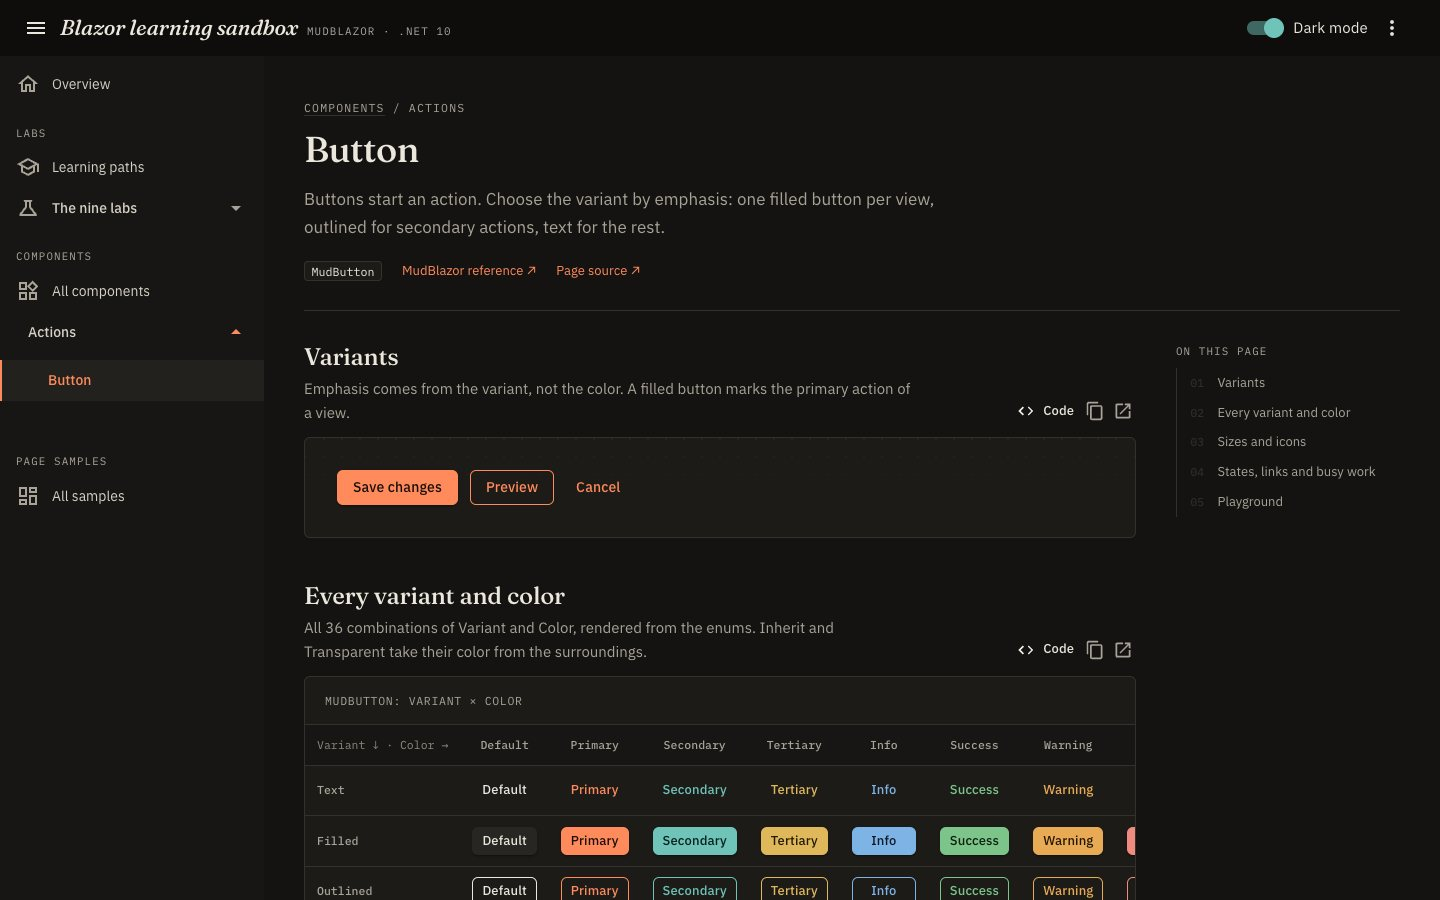
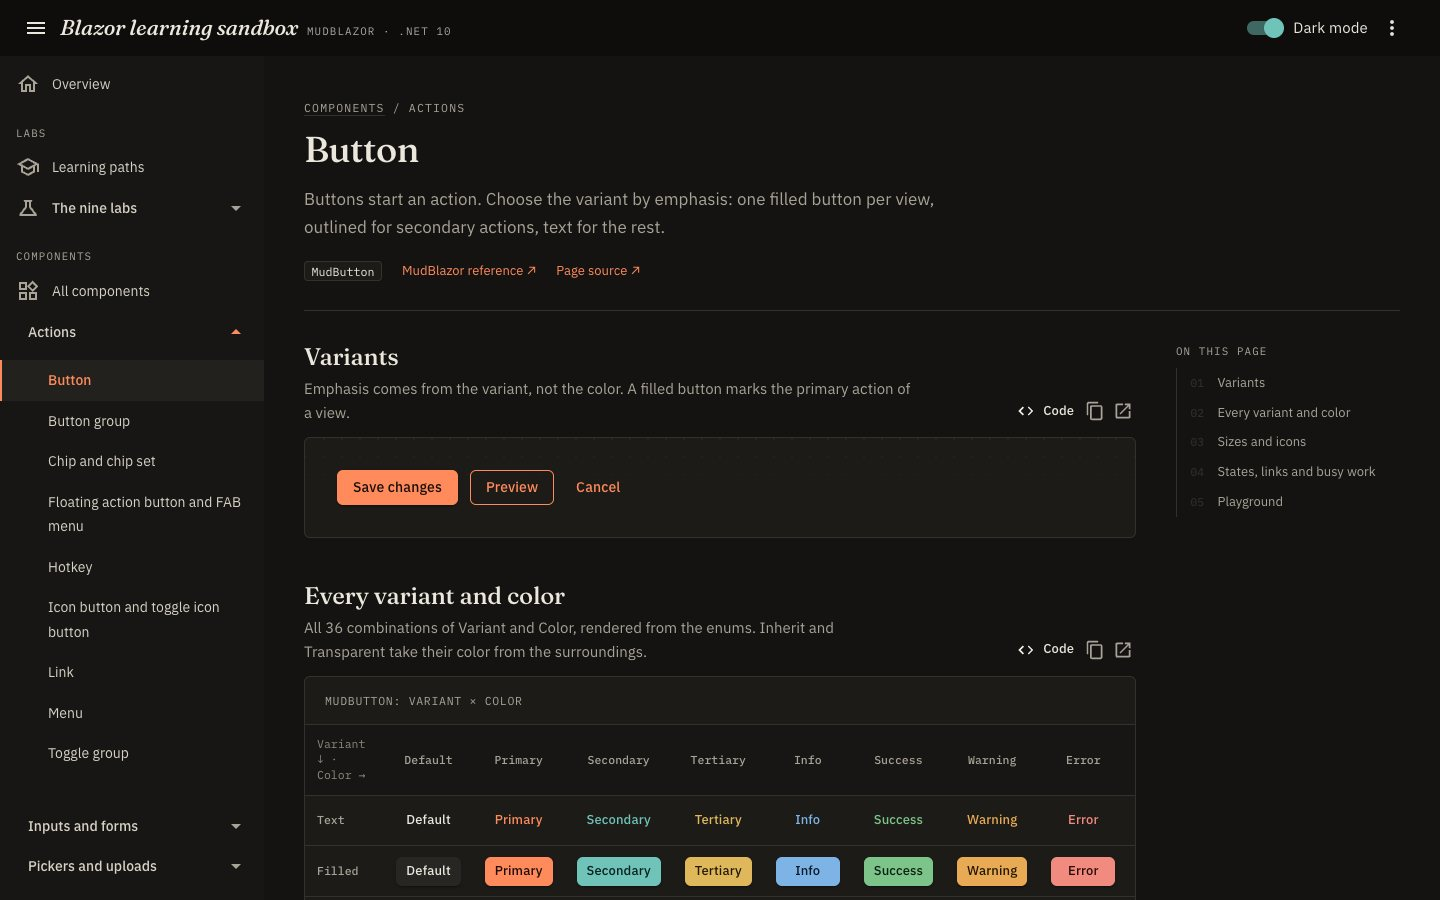
docs: document culture selection, gallery tests and the route sweep
- smoke checks cover the new home, indexes, a component page and a sample
- landing plates recaptured from the finished gallery
- the app-bar wordmark stays on one line on phones

diff --git a/src/WebClient.Shared/wwwroot/app.css b/src/WebClient.Shared/wwwroot/app.css
@@ -50,11 +50,12 @@ pre { overflow-x: auto; padding: 1rem; background: var(--code-bg); color: var(--
 h1[tabindex="-1"]:focus, main[tabindex="-1"]:focus { outline: none; }
 
 /* App bar wordmark */
-.wordmark { display: inline-flex; align-items: baseline; gap: .55rem; color: inherit; text-decoration: none; }
+.wordmark { display: inline-flex; align-items: baseline; gap: .55rem; min-width: 0; color: inherit; text-decoration: none; white-space: nowrap; }
 .wordmark-mark { font-family: var(--font-serif); font-style: italic; font-size: 1.35rem; font-weight: 500; letter-spacing: -.01em; }
 .wordmark-tag { font-family: var(--font-mono); font-size: .68rem; letter-spacing: .1em; text-transform: uppercase; opacity: .7; }
 .mobile-theme { display: none; }
 @media (max-width: 960px) { .desktop-theme { display: none; } .mobile-theme { display: block; } .wordmark-tag { display: none; } }
+@media (max-width: 480px) { .wordmark-mark { font-size: 1.1rem; overflow: hidden; text-overflow: ellipsis; } }
 
 /* Drawer: a table of contents rather than a menu */
 .app-drawer .mud-navmenu { padding-block: .5rem 2rem; }

diff --git a/scripts/smoke-http.py b/scripts/smoke-http.py
@@ -9,8 +9,12 @@ from urllib.request import urlopen
 
 # Route and the page heading it must prerender. Lab titles come from LabCatalog.
 ROUTES = {
-    "/": "Your Blazor and MudBlazor toolbox",
-    "/labs": "Choose an experiment",
+    "/": "Learn by changing working examples.",
+    "/labs": "Nine experiments, in order",
+    "/components": "Every MudBlazor component, working",
+    "/samples": "Whole pages, composed",
+    "/components/button": "Button",
+    "/samples/dashboard": "Analytics dashboard",
     "/counter": "State and lifecycle",
     "/weather": "DataGrid experiments",
     "/labs/forms": "Forms and transactional dialogs",

diff --git a/docs/wiki/testing.md b/docs/wiki/testing.md
@@ -22,6 +22,7 @@ Tests use xUnit, bUnit, ASP.NET Core's in-process server, and real SQLite migrat
 | Identity | Antiforgery rejection, anonymous/student/instructor policy results, disabled demo sign-in |
 | Persistence | Migrations, workspace isolation, stale-update/delete conflicts, scoped reset, note limit, page-only sliding workspace cookie, tampered-cookie replacement |
 | Static demo | In-browser API rules, encoded typed-client requests, localStorage notebook outcomes, browser personas, existing lab sources |
+| Gallery | Every component page and page sample renders with bUnit without hitting an example's error boundary, every example embeds its source, routes are unique, the highlighter round-trips source, snippets omit defaults |
 | Localization | Culture cookie, Portuguese resource text, culture-specific formatting |
 
 These checks do not measure browser layout, assistive-technology behavior, or a live hosting environment. The WebAssembly demo has a browser check (below); the server app's browser behavior and post-deployment verification remain separate layers. Hostinger setup is pending.
@@ -56,7 +57,7 @@ npx playwright install chromium   # once; or set PLAYWRIGHT_CHANNEL=chrome
 npm run check:demo
 ```
 
-The check serves `docs/out` like GitHub Pages (repository path, `404.html` fallback) and verifies deep links, the in-browser API, the skip link, scoped state, notebook conflicts, browser personas, culture reload, atomic CSV import, the largest grid, the not-found page, and a clean console.
+The check serves `docs/out` like GitHub Pages (repository path, `404.html` fallback) and verifies deep links, the in-browser API, the skip link, scoped state, notebook conflicts, browser personas, culture reload, atomic CSV import, the largest grid, the not-found page, and a clean console. It then visits every routable page of the shared library inside the running demo — every lab, component page and page sample — and fails if a page lacks a single heading or an example hits its error boundary.
 
 ## Compare performance honestly
 

diff --git a/docs/wiki/configuration.md b/docs/wiki/configuration.md
@@ -40,7 +40,7 @@ The no-launch-profile example uses the default Production environment, so demo s
 
 Only theme and drawer preferences use localStorage. Storage denial leaves controls usable for the current visit. Viewport size is derived, not stored.
 
-Request localization supports English and Brazilian Portuguese. The culture form performs a full redirect so a fresh circuit inherits the culture. The WebAssembly demo stores the culture in localStorage and applies it before the .NET runtime starts; it loads full ICU data (`BlazorWebAssemblyLoadAllGlobalizationData`) so pt-BR formatting works whatever the browser's language. This example and MudBlazor's translated strings change; the teaching guide remains English.
+Request localization supports English and Brazilian Portuguese. Only the culture cookie selects a culture: the browser's `Accept-Language` is ignored, so MudBlazor's built-in labels never switch language on their own inside an English interface, and both hosts behave the same. The culture form performs a full redirect so a fresh circuit inherits the culture. The WebAssembly demo stores the culture in localStorage and applies it before the .NET runtime starts; it loads full ICU data (`BlazorWebAssemblyLoadAllGlobalizationData`) so pt-BR formatting works whatever the browser's language. This example and MudBlazor's translated strings change; the teaching guide remains English.
 
 The notebook uses a separate protected workspace cookie, issued for page renders only and renewed on each visit. Retain its cookie and the data-protection keys to retain access to the same notes. Demo personas do not identify notebook ownership.
 
